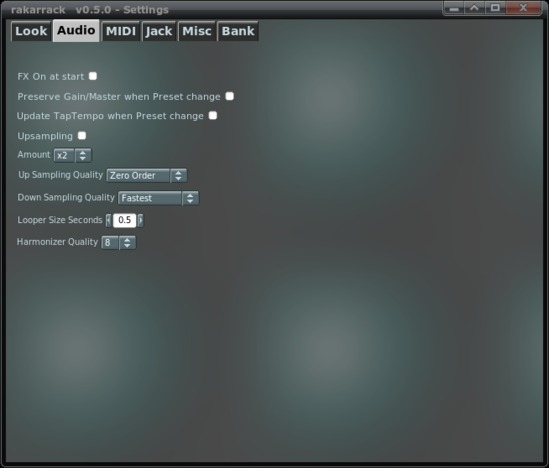
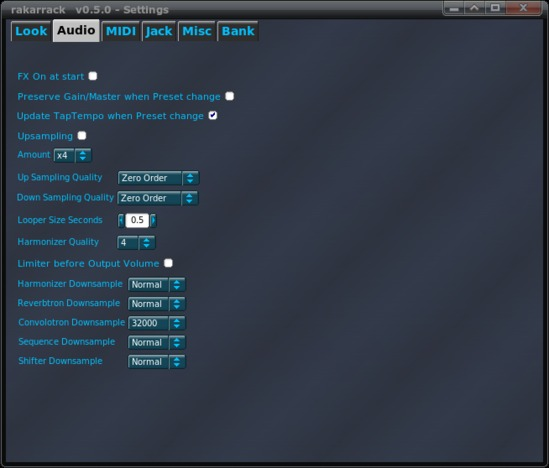
Updating Help
modified:   doc/help/help.html
	modified:   doc/help/imagenes/rvt.jpg
	modified:   doc/help/imagenes/settings1.jpg
	modified:   src/global.h

diff --git a/doc/help/help.html b/doc/help/help.html
@@ -349,8 +349,8 @@ Harmonizer effect, that means you need to play a monophonic melody in
 the Key/Chord selected. The harmonizer recognizes what note you play
 and creates a second voice in the Key/Chord selected.</p>
 
-<h3><a name="settings"></a>Preferences (Settings)</h3><img src="imagenes/settings.jpg" alt="rakarrack Settings Window" align="bottom" border="1"
-height="549" width="468">
+<h3><a name="settings"></a>Preferences (Settings)</h3>
+<p><img src="imagenes/settings.jpg" alt="rakarrack Settings Window"></p>
 <p><b>Color</b></p>
 <p>Through the Settings Look tab window you can configure
 different aspects of the application. The colors of he four elements
@@ -387,27 +387,21 @@ and you want to share please send this file and the background picture
 to any of the rakarrack team members and will include on the website.</p>
 <p><img alt="Settings Audio" src="imagenes/settings1.jpg"></p>
 
-
 <p><b>Fx On at start</b></p>
-
 <p>This option put the FX On at the start, by default
 is Off.</p>
 
 <p><b>Preserve Gain/Master</b></p>
-
 <p>The Input Gain and Master Volume are stored in the
 preset, activating this option the Input Level and Master Volume was
 not modified when preset changes</p>
 
 <p><b>Update Tap Tempo</b></p>
-
 <p>If enabled each time you change the preset the Tempo
 parameter on the effects that has the "On" state will be updated with the
 Tap Tempo value/settings</p>
 
-
 <p><b>Upsampling</b></p>
-
 <p>Enable upsampling using libsamplerate process the
 effects with higher sample rate then the sound quality is improved, all
 the resample parameters will take effect the next time you launch
@@ -421,35 +415,40 @@ recommend start with Linear quality and amount "x2" and check your CPU
 usage with "top", and then increase the amount/quality as desired.</p>
 
 <p><b>Amount</b></p>
-
 <p>Amount of resampling (x2, x3, x4, x5, x6)</p>
 
 <p><b>Up Sampling Quality</b></p>
-
 <p>Upsampling quality, select the libsamplerate quality
-for the upsampling
-procedure.</p>
+for the upsampling procedure.</p>
 
 <p><b>Down Sampling Quality</b></p>
-
-<p>Downsampling quality, select the
-libsamplerate quality for the downsampling procedure.</p>
+<p>Downsampling quality, select the libsamplerate quality for the downsampling procedure.</p>
 
 <p><b>Looper Size Seconds</b></p>
 <p>Is the size in seconds of the buffer for the Looper effect.</p>
 
-
-
-
 <p><b>Harmonizer Quality</b></p>
-
-
 <p>Selects the quality of the harmonizer audio
 engine, used by Harmonizer, Shifter and Sequence effects, the available
 values are "4,8,16,32", the default value is "4". Incrementing the quality
 increments the CPU usage by this effect. Take specially care if you are
 using resampling too.
 This parameter will take effect the next time you run rakarrack.</p>
+
+<p><b>Limiter before Output Volume</b></p>
+<p> Rakarrack use a invisible end chain Limiter to limit the output signal
+level, this option put the limiter before the Output Volume slider, use that
+iff you need to generate a saturated signal level.</p>
+
+<p><b> Harmonizer, Reverbtron, Convolotron, Sequence and Shifter
+Downsample</b></p>
+<p> Here you can select the sample rate that use each effect, if you have
+problems of CPU usage, use this options to reduce the amount of CPU that
+each effect use. Probably if you have active resampling you will need to
+limit the sample rate of some effects in order to be able to use some
+presets. Of course that reduce the sound quality, but sure you can find a good
+balance settings.</p>
+
 <p><img alt="Settings MIDI" src="imagenes/settings2.jpg"></p>
 
 <p><b>Auto Connect ALSA Sequencer Ports</b></p>
@@ -2447,6 +2446,20 @@ quality of the resultant reverb relies 100% on the construction of the
 improvements to Reverbtron for users who install Rakarrack from their
 distribution repository.  Then they only need to download .rvb
 files as the Rakarrack team improves the IR file processing.</p>
+<p>A tip to reduce CPU usage to an amount that even some slower processors 
+can easily manage is open the Rakarrack Preferences and set the internal 
+sampling rate to a low rate, down to 8kHz.  It may seem a low quality 
+sound will result from using a samplerate of 8kHz, but with some magical 
+mathematics in the downsampling and upsampling process it is possible to 
+replicate the input signal perfectly in the upsampling routine, only 
+band-limited to 1/2 the sample rate.  In other words, the loss in 
+quality is no worse than applying a steep low-pass filter at slightly 
+below 1/2 the sample rate, assuming you are using one of the sinc 
+interpolation up/down sampling selections.  There will be non-musical 
+artifacts resulting from zero-order hold or linear interpolation, 
+although this may be acceptable to you if your CPU is too slow to handle 
+the higher quality selections. Almost all selections of resampling will 
+be faster than processing at a higher samplerate.</p>
 <p>Here are the parameters:</p>
 <p><b>Wet/Dry</b>: Amount of dry signal to mix with the convolved
 signal.  Notice that the IR file defines the maximum
@@ -2459,7 +2472,7 @@ time.</p>
 <p><b>Level</b>: Helps to compensate for louder and softer IR volume
 levels.</p>
 <p><b>Damp</b>: Reduces high frequency content in the signal.  This can help to tame poorly behaved IR
-files.</p>
+files, or simply to impose a different character on the IR.</p>
 <p><b>Fb</b>: Feedback.  Feed output to input.  Be careful as this
 has the same sensitivity and character as microphone feedback. 
 Setting initial delay or fade to a modest level helps to create more of
@@ -2485,6 +2498,29 @@ real physical world.</p>
 <p><b>Fade</b>: Reduce the level of the initial response of the IR. 
 This can be used to increase the wet level on an IR that contains much
 of the direct response.</p>
+<p><b>Diffusion</b>: Diffuse the percussive echoes. Synthesizes an
+artificial Head Related Transfer Function (HRTF) and performs a second convolution 
+on the output.  Increasing the slider value increases the number of 
+reflections in the HRTF, and will better diffuse the discrete echo 
+sounds.  For instruments with fast or percussive attacks this can be a 
+very necessary control to help make the reverb more smooth and natural 
+sounding.</p>
+<p><b>ES</b>: Extra Stereo. Emulate a spatial effect in stereo. This works 
+approximately like this:  
+Signal->LPF->Right->LPF->Delay->Left->FeedbackToSignal....and it just 
+keeps feeding back on itself in a loop until it decays.  The delay time 
+is set internally by a guess at the room size based on properties of the 
+IR file.  The method assumes in a real room your ears will be most 
+sensitive to reflections from the walls on the left and right side.  Each 
+time a sound reflects off a wall, generally it loses more high frequency 
+content than low frequency content, and a reflection will be delayed and 
+filtered by the time it passes your left ear, bounces off the right wall 
+and returns to your right ear.  Anybody with technical understanding 
+will know this is a very general approximation, but the result is 
+pleasant, and certainly creates an illusion of space when listening in 
+stereo (particularly with headphones).</p>
+<p><b>LPF</b>: Low Pass Filter.  Sets the cutoff point where high
+frequencies are damped in the ES option.</p>
 <p><b>Safe</b>: Limits Length regardless of the setting.</p>
 <p><b>User</b>: Browse for your own .rbv file.  These files are
 generated by invoking the rakverb command on a .wav format IR file.

diff --git a/src/global.h b/src/global.h
@@ -540,6 +540,8 @@ public:
   {
     char Nom[24];
     int Pos;
+    int Type;
+
   } efx_names[70];
 
   struct Effects_Params
